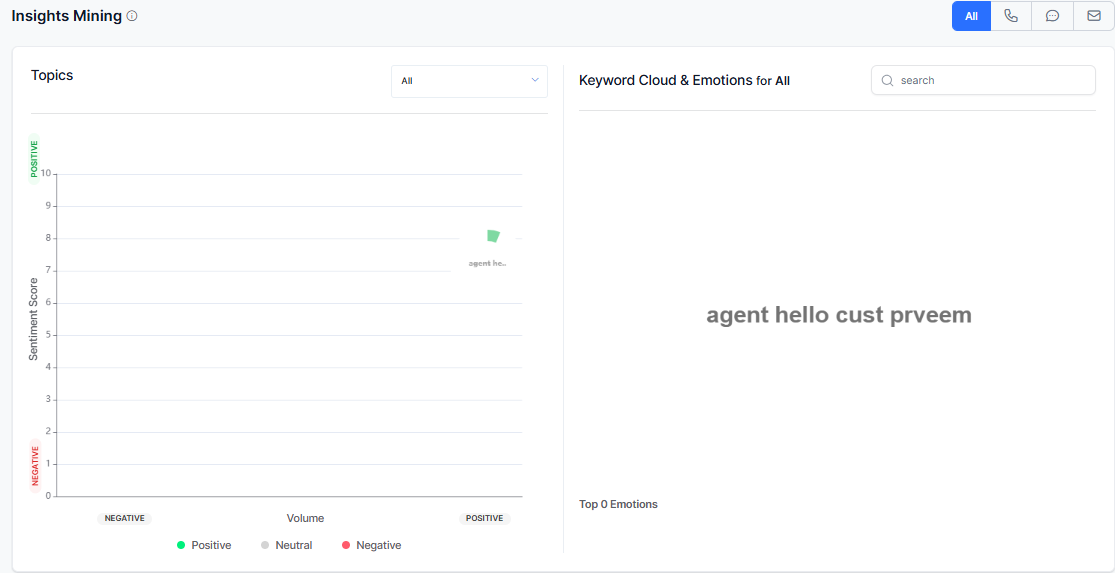
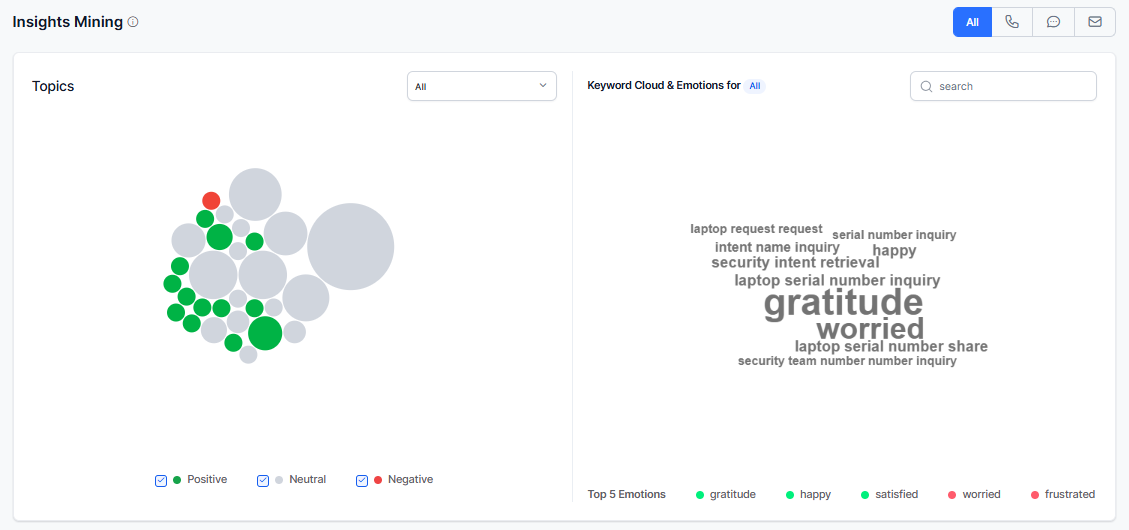
added insights mapping content

diff --git a/docs/xo/quality-management/analyze/conversation-intelligence.md b/docs/xo/quality-management/analyze/conversation-intelligence.md
@@ -279,21 +279,47 @@ The Customer Churn Monitor is a pie chart representation of the customer churn r
 
 ## Insights Mining
 
-The insights mining dashboard comprises three widgets that facilitate data exploration.
+Insights Mining displays the top 30 topics by volume and allows you to identify the topics associated with volume, sentiment, keywords and emotions for the selected date range and channel.  
+<img src="../conversation-intelligence/images/insights-mining-default-screen.png" alt="Customer Churn Monitor" title="Customer Churn Monitor" style="border: 1px solid gray; zoom:80%;">
+
+By default, this widget displays a blank screen without any data. Based on the date range and topic selected from the calendar, it pulls the required sentiment scores for interactions in bubbles.
 
 ### Topics 
 
-The widget grades sentiment scores for interactions on a scale of 1 to 10. Each topic is represented by a bubble with indicators for different weights associated with positive, neutral, or negative sentiment.
+This displays grades sentiment scores for interactions on a scale of 1 to 10. Each topic is represented by a bubble with indicators for different volumes associated with positive, neutral, or negative sentiment. This displays the Top 5 emotions including both positive and negative.
 
-Hovering over a topic displays the associated average emotion index label (for example, angry or frustrated) instead of the topic name.
+Hovering over a topic (actionable insights via tooltips) displays the following associated average emotion index label (for example, angry or frustrated) instead of the topic name. 
 
-For example: The “Network issues” bubble indicates sentiment distribution as follows:
+#### Bubble Color & Sentiment Logic
+The bubble plotting visual representation helps you to quickly identify sentiment distribution and volume for each topic. Hovering over a bubble displays a tooltip with sentiment distribution, total interactions, and average sentiment score.
 
-40% positive (green), 30% neutral, and 30% negative. These percentages are represented by the bubble’s circumference. Hovering over “Network issues” shows the average emotion index, such as “satisfied” (associated with the average sentiment score).
+**Sentiment Color**
+
+* **Green** (Positive): Indicates positive sentiment distribution and the Sentiment score is between 6 and 10.
+* **Grey** (Neutral): Indicates neutral sentiment distribution and the Sentiment score is between 4 and 6.
+* **Red** (Negative): Indicates negative sentiment distribution and the Sentiment score is between 1 and 4.
+* **No. of Interactions**: Total count of interactions for that topic.
+* **Sentiment Score**: Overall sentiment score for the topic.
+
+The bubble size reflects the volume of interactions for a topic. It is dynamically calculated within the selected date range, with the size scaled proportionally to show the topic's interaction volume relative to the minimum and maximum values. By default, all three sentiment colors are selected, showing a combined view of all topics with varying sentiments. By clicking on a specific sentiment color, you can view the most relevant topics within each sentiment category.
+
+The color logic for sentiment:
+* 1<=x<4: Negative (Red)
+* 4<=x<6: Neutral (Grey)
+* 6<=x<=10: Positive (Green)
+
+    !!! Note
+
+        By default, only the top most significant 30 topics (based on interaction volume) are displayed on the widget.
+
+For example, the **Payment** bubble indicates sentiment distribution as **Positive** 68% (green), **Neutral**  10% (grey), and **Negative** 22% (red). 
+
+These percentages are represented by the bubble’s circumference. Hovering over the Payment bubble shows the average emotion index, such as **Flexible**, **Accurate**, **Fast**, and so on (associated with the average sentiment score).  
+<img src="../conversation-intelligence/images/topics-percentage.png" alt="Keyword Cloud" title="Keyword Cloud" style="border: 1px solid gray; zoom:90%;">
 
 ## Keyword Cloud & Emotions for All
 
-This widget shows relevant keywords for a selected topic from the previous widget. It excludes general stop words and common words. 
+This displays relevant keywords for a selected **Topics** from the previous widget. It excludes general stop words and common words. 
  
 <img src="../conversation-intelligence/images/insights-mining.png" alt="Keyword Cloud" title="Keyword Cloud" style="border: 1px solid gray; zoom:90%;">
 
@@ -317,7 +343,7 @@ The interaction details refer to the main keyword searched, and if any semantic 
 
 When a specific semantic variation keyword is selected in the keyword cloud, the interactions related to that keyword are displayed in the interaction details.  
 
-<img src="../conversation-intelligence/images/keyword-search.png" alt="Keyword Search" title="Keyword Search" style="border: 1px solid gray; zoom:90%;">
+<img src="../conversation-intelligence/images/selected-topic.png" alt="Keyword Search" title="Keyword Search" style="border: 1px solid gray; zoom:90%;">
 
 ## Interaction Details
 
